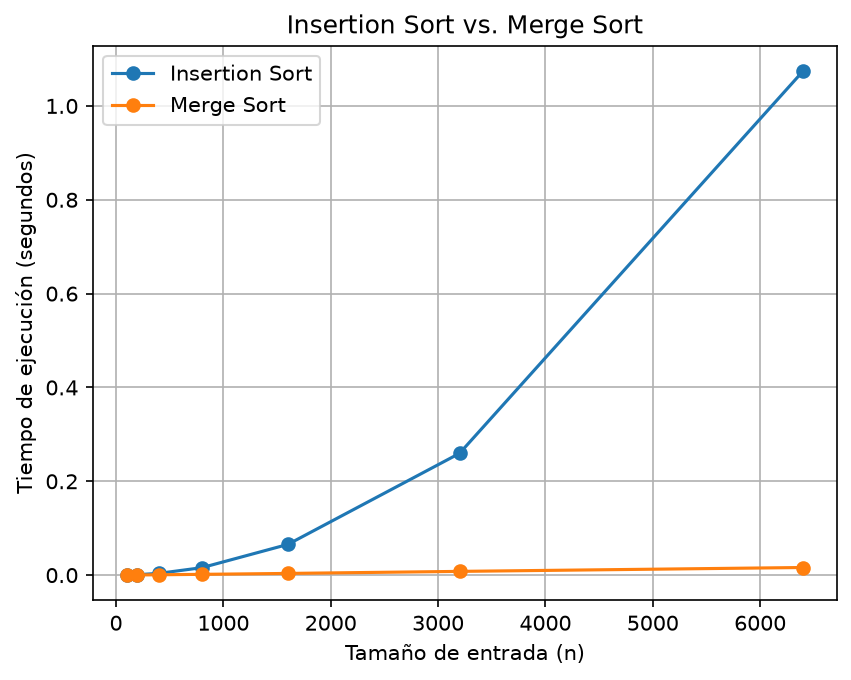
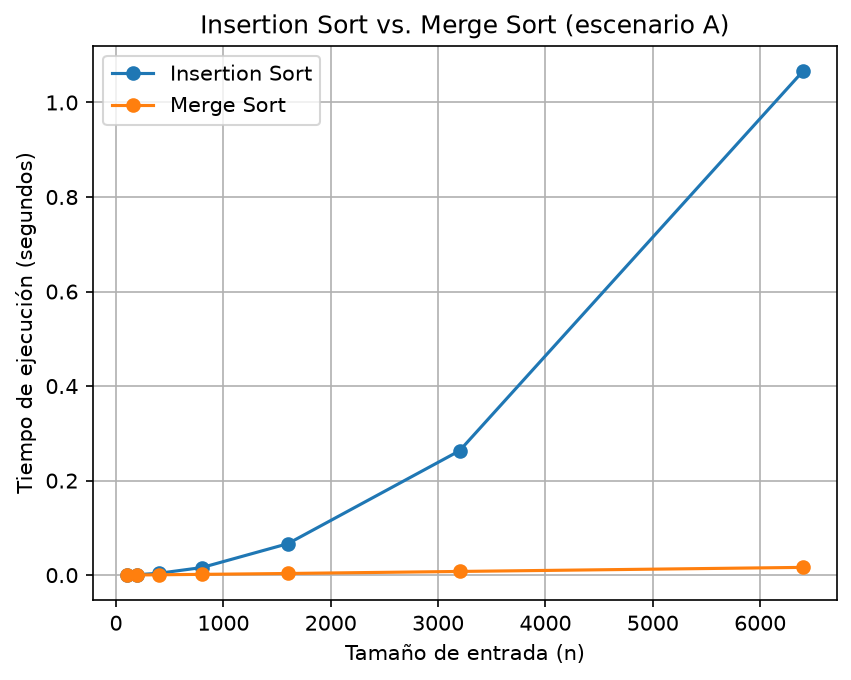
Mide mediana de 3 repeticiones y compara algoritmos por escenario en la parte 4

diff --git a/lab1-fundamentos-complejidad-recurrencias/parte4_complejidad.py b/lab1-fundamentos-complejidad-recurrencias/parte4_complejidad.py
@@ -1,79 +1,157 @@
 """Medición comparativa de insertion sort y merge sort."""
 
+import statistics
 import time
+from collections.abc import Callable
 from pathlib import Path
 
 import matplotlib.pyplot as plt
 
 from algoritmos import insertion_sort, merge_sort
-from datos import generar_aleatorio
+from datos import (
+    generar_aleatorio,
+    generar_casi_ordenado,
+    generar_inverso,
+)
 
 
 TAMANOS = [100, 200, 400, 800, 1600, 3200, 6400]
 
+REPETICIONES = 3
+
 CARPETA_GRAFICAS = Path("graficas")
 
+Algoritmo = Callable[[list[int]], tuple[list[int], int]]
 
-def medir_algoritmo(algoritmo, datos):
-    """Mide únicamente el tiempo de ejecución del algoritmo."""
-    inicio = time.perf_counter()
-    algoritmo(datos)
-    fin = time.perf_counter()
-
-    return fin - inicio
+ALGORITMOS: dict[str, Algoritmo] = {
+    "Insertion Sort": insertion_sort,
+    "Merge Sort": merge_sort,
+}
 
 
-def ejecutar_experimento():
-    """Mide ambos algoritmos sobre el escenario A."""
-    tiempos_insertion = []
-    tiempos_merge = []
+def medir_algoritmo(
+    algoritmo: Algoritmo,
+    datos: list[int],
+) -> tuple[float, int]:
+    """Mide unicamente la ejecucion del algoritmo sobre un lote.
+
+    El algoritmo se ejecuta REPETICIONES veces sobre el mismo lote y se
+    toma la mediana del tiempo para reducir el ruido del sistema
+    operativo. Como el algoritmo no modifica la lista recibida, todas las
+    repeticiones ordenan exactamente la misma entrada.
+
+    Args:
+        algoritmo: funcion de ordenamiento de algoritmos.py.
+        datos: lote de indices de riesgo a ordenar.
+
+    Returns:
+        Una tupla con la mediana del tiempo de ejecucion en segundos y
+        el numero de comparaciones entre elementos.
+    """
+    tiempos = []
+    comparaciones = 0
+
+    for _ in range(REPETICIONES):
+        inicio = time.perf_counter()
+        _, comparaciones = algoritmo(datos)
+        fin = time.perf_counter()
+
+        tiempos.append(fin - inicio)
+
+    return statistics.median(tiempos), comparaciones
+
+
+def ejecutar_experimento() -> dict[str, dict[str, list[float]]]:
+    """Mide ambos algoritmos sobre el escenario A para cada tamano.
+
+    Returns:
+        Diccionario indexado por nombre de algoritmo. Cada valor tiene
+        las listas "tiempo" (segundos) y "comparaciones", en el mismo
+        orden de TAMANOS.
+    """
+    resultados = {
+        nombre: {"tiempo": [], "comparaciones": []}
+        for nombre in ALGORITMOS
+    }
 
     for n in TAMANOS:
         datos = generar_aleatorio(n)
+        linea = f"n={n:5}"
 
-        tiempo_insertion = medir_algoritmo(
-            insertion_sort,
-            datos,
-        )
+        for nombre, algoritmo in ALGORITMOS.items():
+            tiempo, comparaciones = medir_algoritmo(algoritmo, datos)
 
-        tiempo_merge = medir_algoritmo(
-            merge_sort,
-            datos,
-        )
+            resultados[nombre]["tiempo"].append(tiempo)
+            resultados[nombre]["comparaciones"].append(comparaciones)
 
-        tiempos_insertion.append(tiempo_insertion)
-        tiempos_merge.append(tiempo_merge)
+            linea += (
+                f" | {nombre}: {tiempo:.6f}s, "
+                f"{comparaciones} comparaciones"
+            )
 
-        print(
-            f"n={n:5} | "
-            f"insertion={tiempo_insertion:.6f}s | "
-            f"merge={tiempo_merge:.6f}s"
-        )
+        print(linea)
 
-    return tiempos_insertion, tiempos_merge
+    return resultados
 
 
-def generar_grafica(tiempos_insertion, tiempos_merge):
-    """Genera la gráfica comparativa."""
+def comparar_por_escenario(
+    n: int = 6400,
+) -> dict[str, dict[str, tuple[float, int]]]:
+    """Mide ambos algoritmos sobre los tres escenarios de Tamiza.
+
+    Sirve para comprobar con datos si el tiempo de cada algoritmo
+    depende del canal por el que llega el lote.
+
+    Args:
+        n: cantidad de registros de cada lote.
+
+    Returns:
+        Diccionario indexado por nombre de algoritmo y luego por
+        escenario, con la tupla (tiempo en segundos, comparaciones).
+    """
+    escenarios = {
+        "A - Aleatorio": generar_aleatorio(n),
+        "B - Casi ordenado": generar_casi_ordenado(n),
+        "C - Inverso": generar_inverso(n),
+    }
+
+    resultados = {nombre: {} for nombre in ALGORITMOS}
+
+    print(f"\nComparacion por escenario (n={n}):")
+
+    for escenario, datos in escenarios.items():
+        for nombre, algoritmo in ALGORITMOS.items():
+            tiempo, comparaciones = medir_algoritmo(algoritmo, datos)
+            resultados[nombre][escenario] = (tiempo, comparaciones)
+
+            print(
+                f"{escenario:18} | {nombre:14} | "
+                f"tiempo={tiempo:.6f}s | "
+                f"comparaciones={comparaciones}"
+            )
+
+    return resultados
+
+
+def generar_grafica(resultados: dict[str, dict[str, list[float]]]) -> None:
+    """Genera la grafica comparativa de tiempo vs. tamano de entrada.
+
+    Args:
+        resultados: diccionario devuelto por ejecutar_experimento.
+    """
     CARPETA_GRAFICAS.mkdir(exist_ok=True)
 
     plt.figure()
 
-    plt.plot(
-        TAMANOS,
-        tiempos_insertion,
-        marker="o",
-        label="Insertion Sort",
-    )
+    for nombre, datos in resultados.items():
+        plt.plot(
+            TAMANOS,
+            datos["tiempo"],
+            marker="o",
+            label=nombre,
+        )
 
-    plt.plot(
-        TAMANOS,
-        tiempos_merge,
-        marker="o",
-        label="Merge Sort",
-    )
-
-    plt.title("Insertion Sort vs. Merge Sort")
+    plt.title("Insertion Sort vs. Merge Sort (escenario A)")
     plt.xlabel("Tamaño de entrada (n)")
     plt.ylabel("Tiempo de ejecución (segundos)")
     plt.legend()
@@ -89,11 +167,10 @@ def generar_grafica(tiempos_insertion, tiempos_merge):
 
 
 if __name__ == "__main__":
-    tiempos_insertion, tiempos_merge = ejecutar_experimento()
+    resultados = ejecutar_experimento()
 
-    generar_grafica(
-        tiempos_insertion,
-        tiempos_merge,
-    )
+    generar_grafica(resultados)
+
+    comparar_por_escenario()
 
     print("\nGráfica de Parte 4 generada correctamente.")
